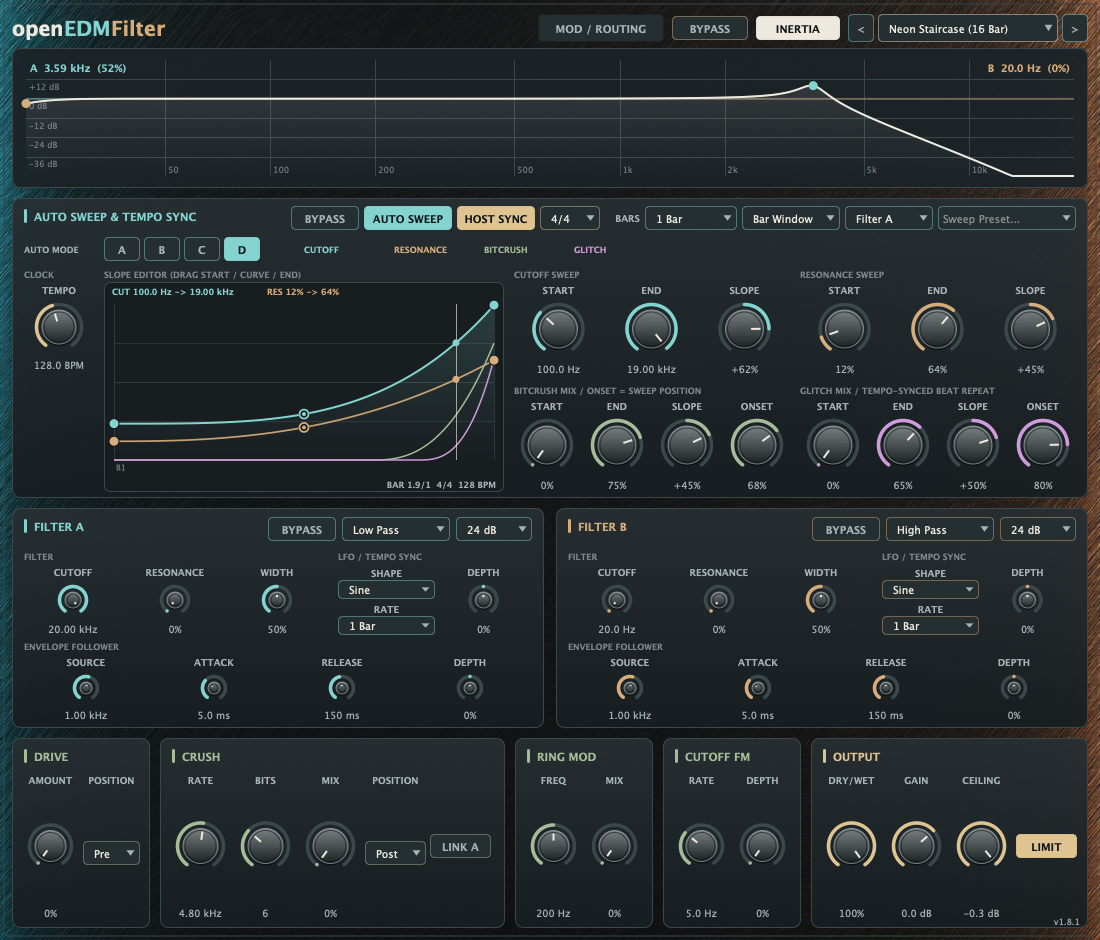
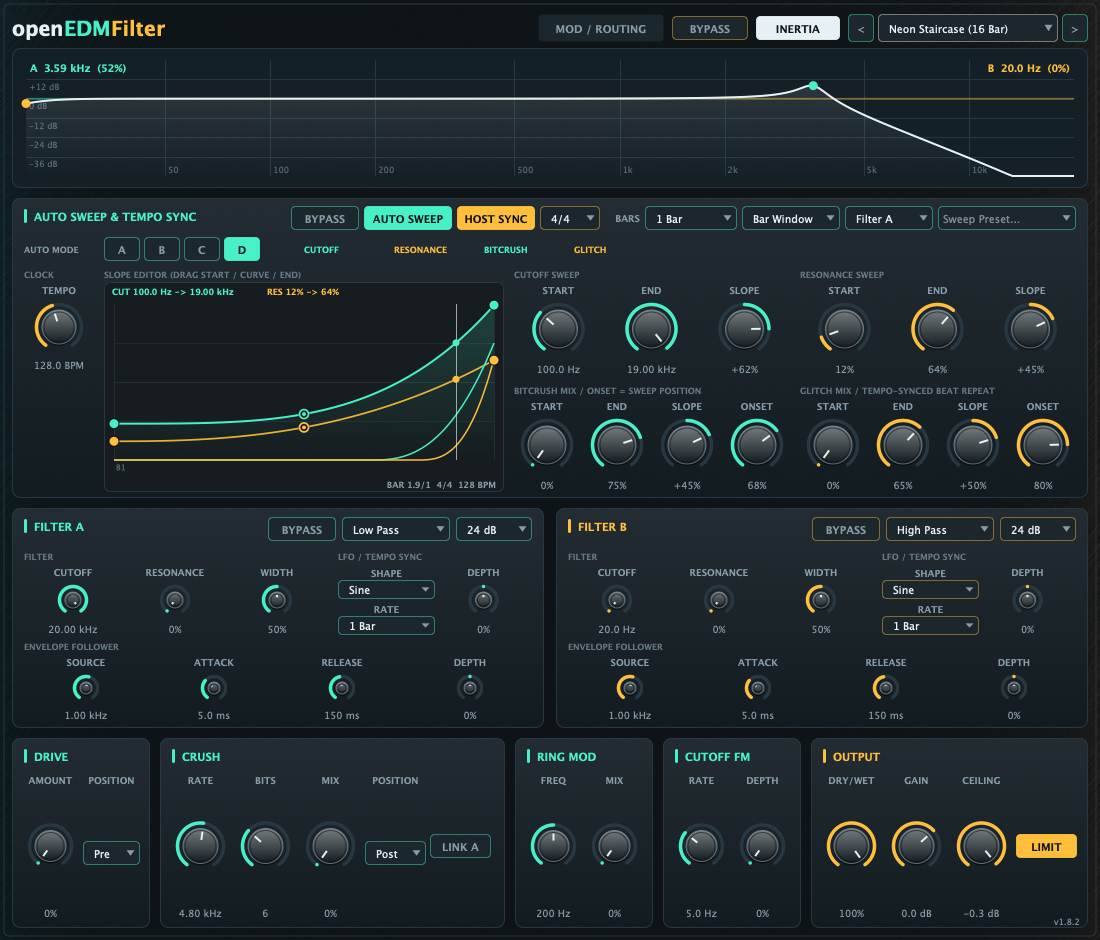
feat: standardize openEDMFilter interface

diff --git a/Source/Plugin/Panels.cpp b/Source/Plugin/Panels.cpp
@@ -450,7 +450,7 @@ void SweepSlopeEditor::paint(juce::Graphics& g) {
     g.strokePath(resPath, juce::PathStrokeType(1.75f));
 
     const std::array envelopes{ settings.crush, settings.glitch };
-    const std::array colours{ theme::kAccentFx, juce::Colour(0xffcf9bdc) };
+    const std::array colours{ theme::kAccentFx, theme::kAccentB };
     for (size_t i = 0; i < envelopes.size(); ++i) {
         const auto path = buildCurve([&](double phase) {
             const float progress = core::AutoSweep::progressAt(settings.mode, settings.bars, phase);
@@ -548,7 +548,7 @@ SweepPanel::SweepPanel(OpenEdmFilterProcessor& processor)
       }) {
     const std::array<const char*, 4> effectTitles{ "Start", "End", "Slope", "Onset" };
     for (size_t i = 0; i < effectKnobs_.size(); ++i) {
-        const auto colour = i < 4 ? theme::kAccentFx : juce::Colour(0xffcf9bdc);
+        const auto colour = i < 4 ? theme::kAccentFx : theme::kAccentB;
         effectKnobs_[i] = std::make_unique<Knob>(processor.parameters, params::kSweepEffectIds[i], effectTitles[i % 4], colour);
         addAndMakeVisible(*effectKnobs_[i]);
     }
@@ -613,7 +613,7 @@ void SweepPanel::paint(juce::Graphics& g) {
     g.setFont(juce::FontOptions(10.0f, juce::Font::bold));
     g.drawText("AUTO MODE", slotArea_.withWidth(76), juce::Justification::centredLeft);
     const std::array<const char*, 4> labels{ "CUTOFF", "RESONANCE", "BITCRUSH", "GLITCH" };
-    const std::array colours{ theme::kAccentA, theme::kAccentB, theme::kAccentFx, juce::Colour(0xffcf9bdc) };
+    const std::array colours{ theme::kAccentA, theme::kAccentB, theme::kAccentFx, theme::kAccentB };
     auto legend = slotArea_.withTrimmedLeft(280);
     for (size_t i = 0; i < labels.size(); ++i) {
         g.setColour(colours[i]);

diff --git a/Source/Plugin/Theme.h b/Source/Plugin/Theme.h
@@ -4,16 +4,16 @@
 
 namespace openedm::theme {
 
-inline const juce::Colour kBackground{ 0xff0f1518 };
-inline const juce::Colour kPanel{ 0xf21b2327 };
-inline const juce::Colour kPanelEdge{ 0xff3b474a };
-inline const juce::Colour kKnobBody{ 0xff252f32 };
-inline const juce::Colour kTrack{ 0xff3c494c };
-inline const juce::Colour kText{ 0xffeee9df };
-inline const juce::Colour kTextDim{ 0xffa6b2b4 };
-inline const juce::Colour kAccentA{ 0xff83d4d0 };
-inline const juce::Colour kAccentB{ 0xffd7ac7b };
-inline const juce::Colour kAccentFx{ 0xffa6bb97 };
-inline const juce::Colour kAccentOut{ 0xffdfc390 };
+inline const juce::Colour kBackground{ 0xff0d1317 };
+inline const juce::Colour kPanel{ 0xff152026 };
+inline const juce::Colour kPanelEdge{ 0xff283842 };
+inline const juce::Colour kKnobBody{ 0xff1b272d };
+inline const juce::Colour kTrack{ 0xff283842 };
+inline const juce::Colour kText{ 0xffe6f0f5 };
+inline const juce::Colour kTextDim{ 0xff869ca8 };
+inline const juce::Colour kAccentA{ 0xff48f0c8 };
+inline const juce::Colour kAccentB{ 0xffffbe3b };
+inline const juce::Colour kAccentFx{ 0xff48f0c8 };
+inline const juce::Colour kAccentOut{ 0xffffbe3b };
 
 } // namespace openedm::theme

diff --git a/Source/Plugin/PluginEditor.cpp b/Source/Plugin/PluginEditor.cpp
@@ -94,7 +94,7 @@ OpenEdmFilterEditor::~OpenEdmFilterEditor() {
 
 void OpenEdmFilterEditor::paint(juce::Graphics& g) {
     g.fillAll(theme::kBackground);
-    g.setOpacity(0.75f);
+    g.setOpacity(0.12f);
     g.drawImage(faceplate_, getLocalBounds().toFloat(), juce::RectanglePlacement::stretchToFit);
     g.setOpacity(1.0f);
     g.setColour(theme::kPanelEdge);

diff --git a/docs/SCREENSHOTS.md b/docs/SCREENSHOTS.md
@@ -2,7 +2,7 @@
 
 ![Native plugin editor](../assets/native-ui.png)
 
-`assets/native-ui.png` is the v1.4.0 editor at 1100 x 940, captured from the release build on 2026-11-06. Neon Staircase curves, Auto Mode D, BARS set to 1 Bar, playhead at 90% of that bar. It is a component render of the editor.
+`assets/native-ui.png` is the v1.8.2 editor at 1100 x 940, captured from the Release build on 2026-11-16. Neon Staircase curves, Auto Mode D, BARS set to 1 Bar, playhead at 90% of that bar. It is a component render of the editor.
 
 Reproduce on macOS from the repository root:
 
